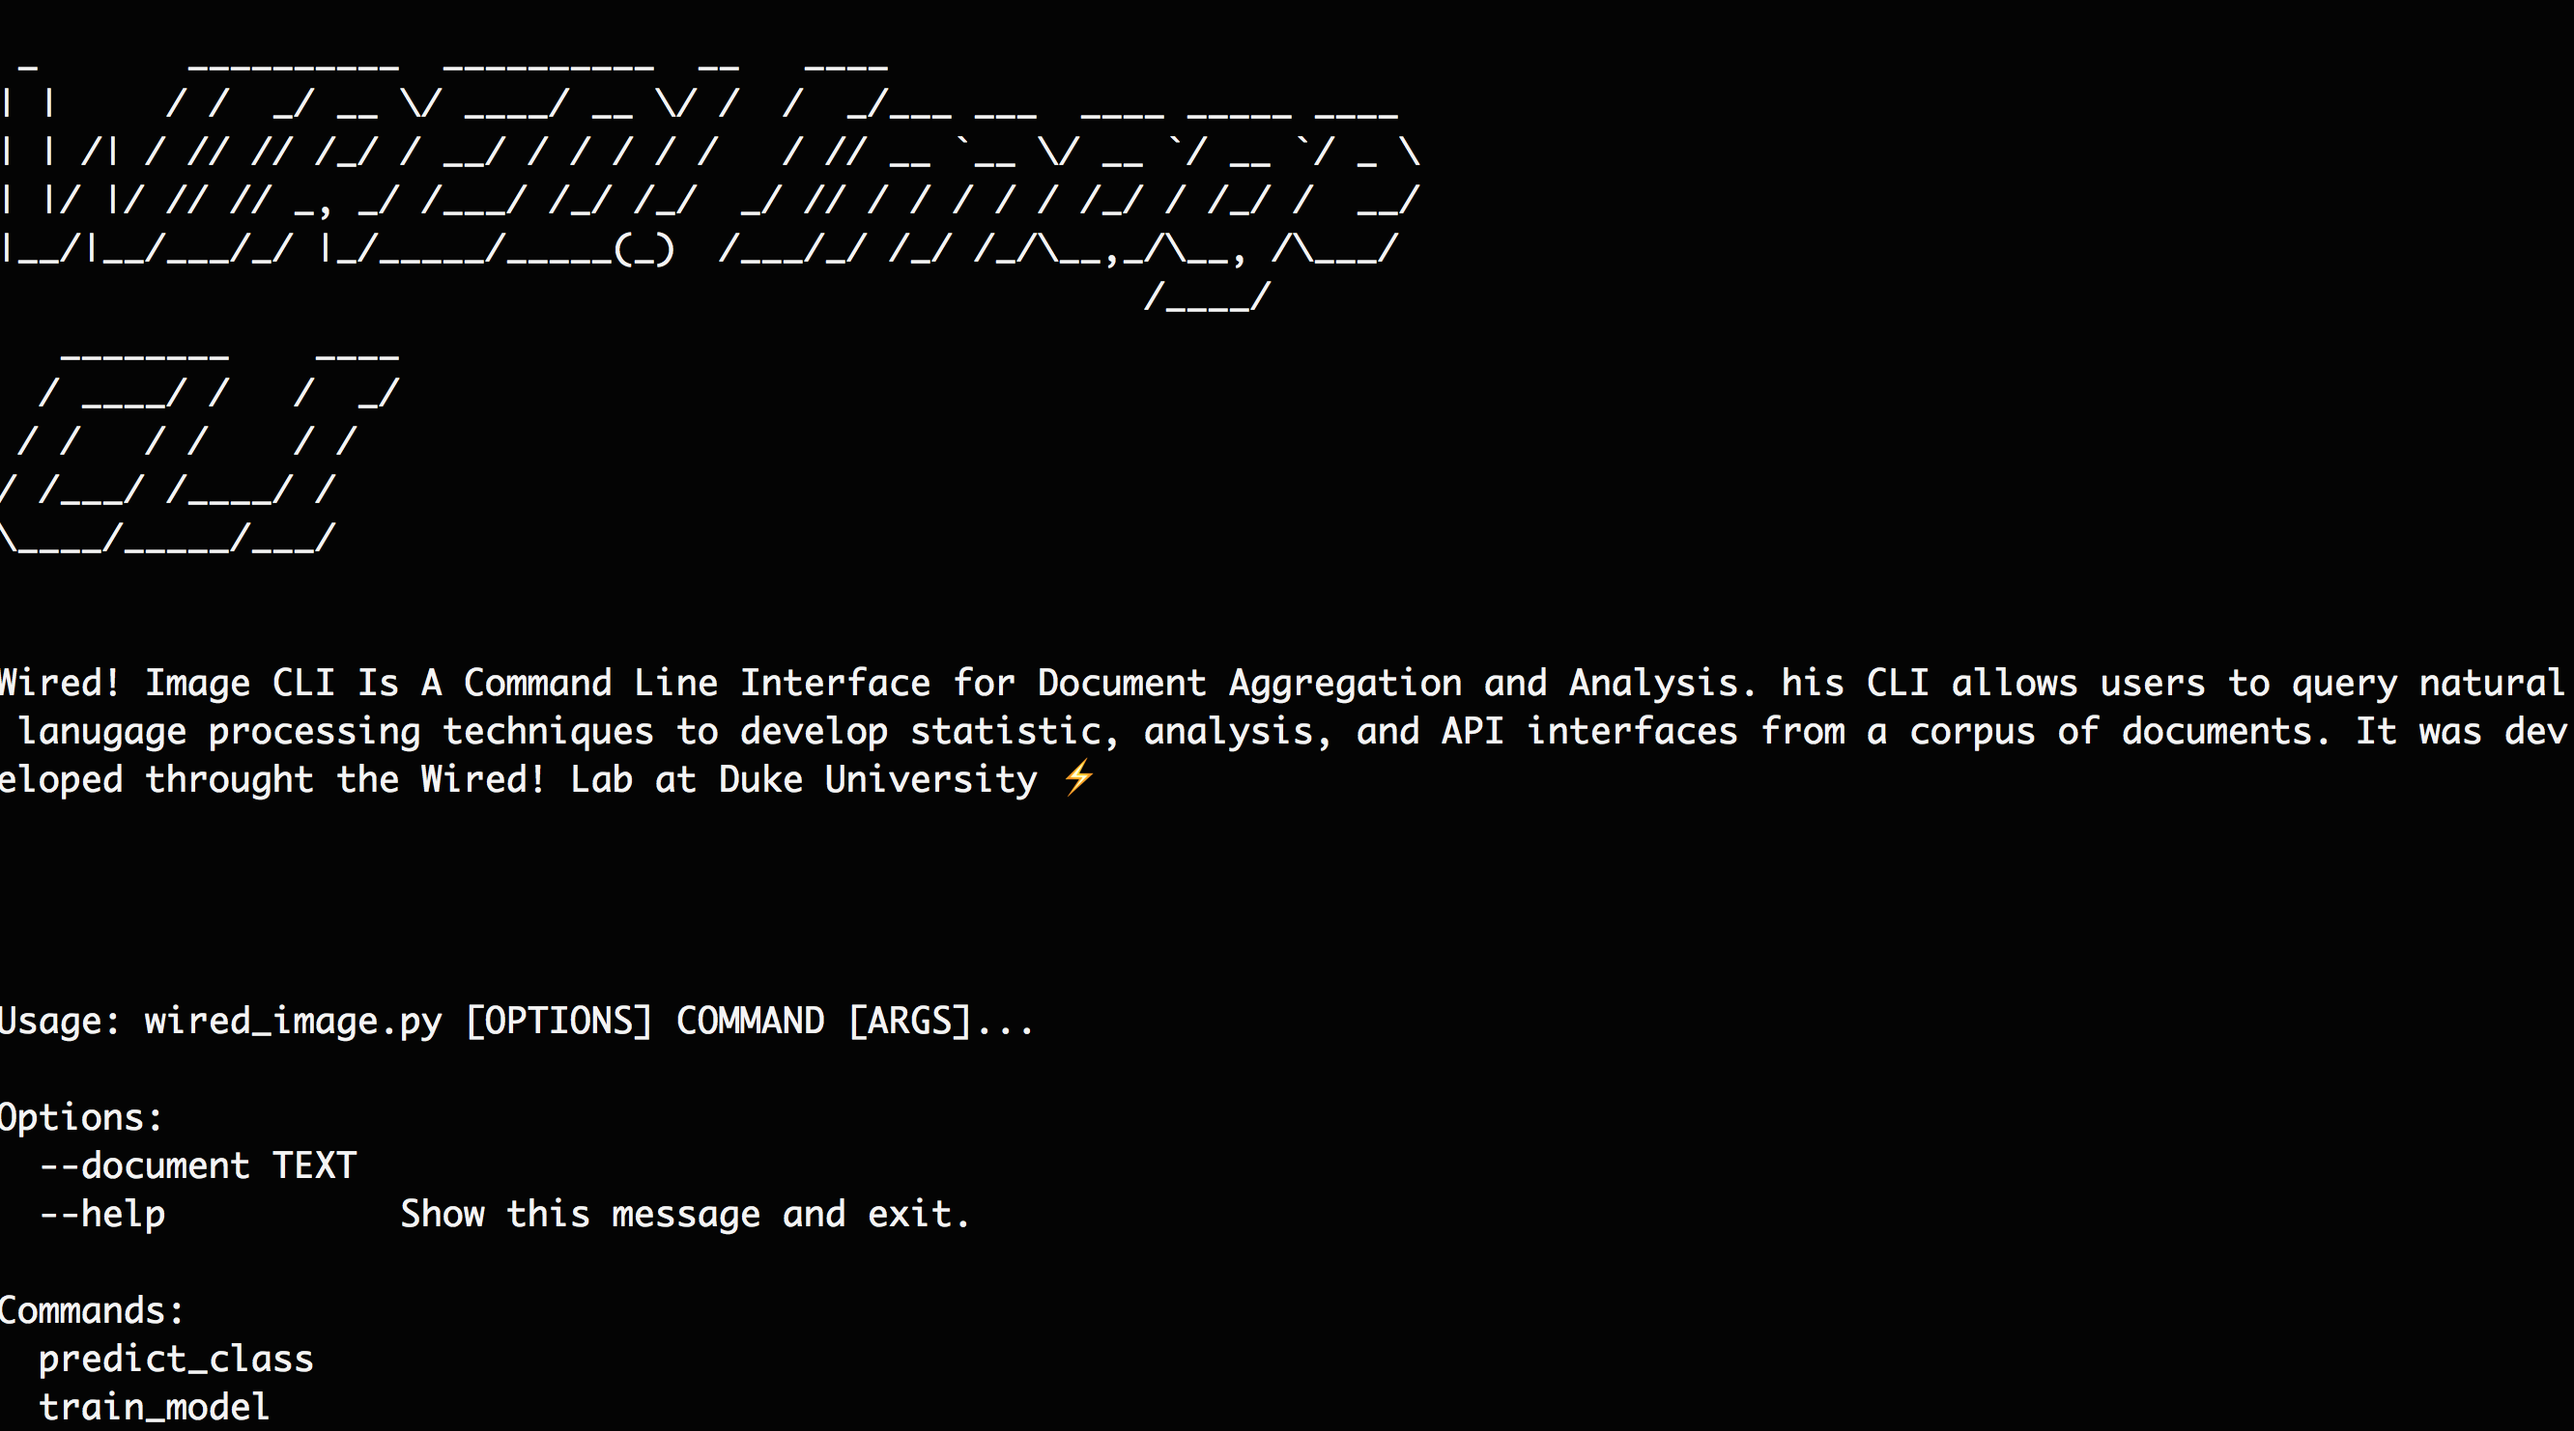
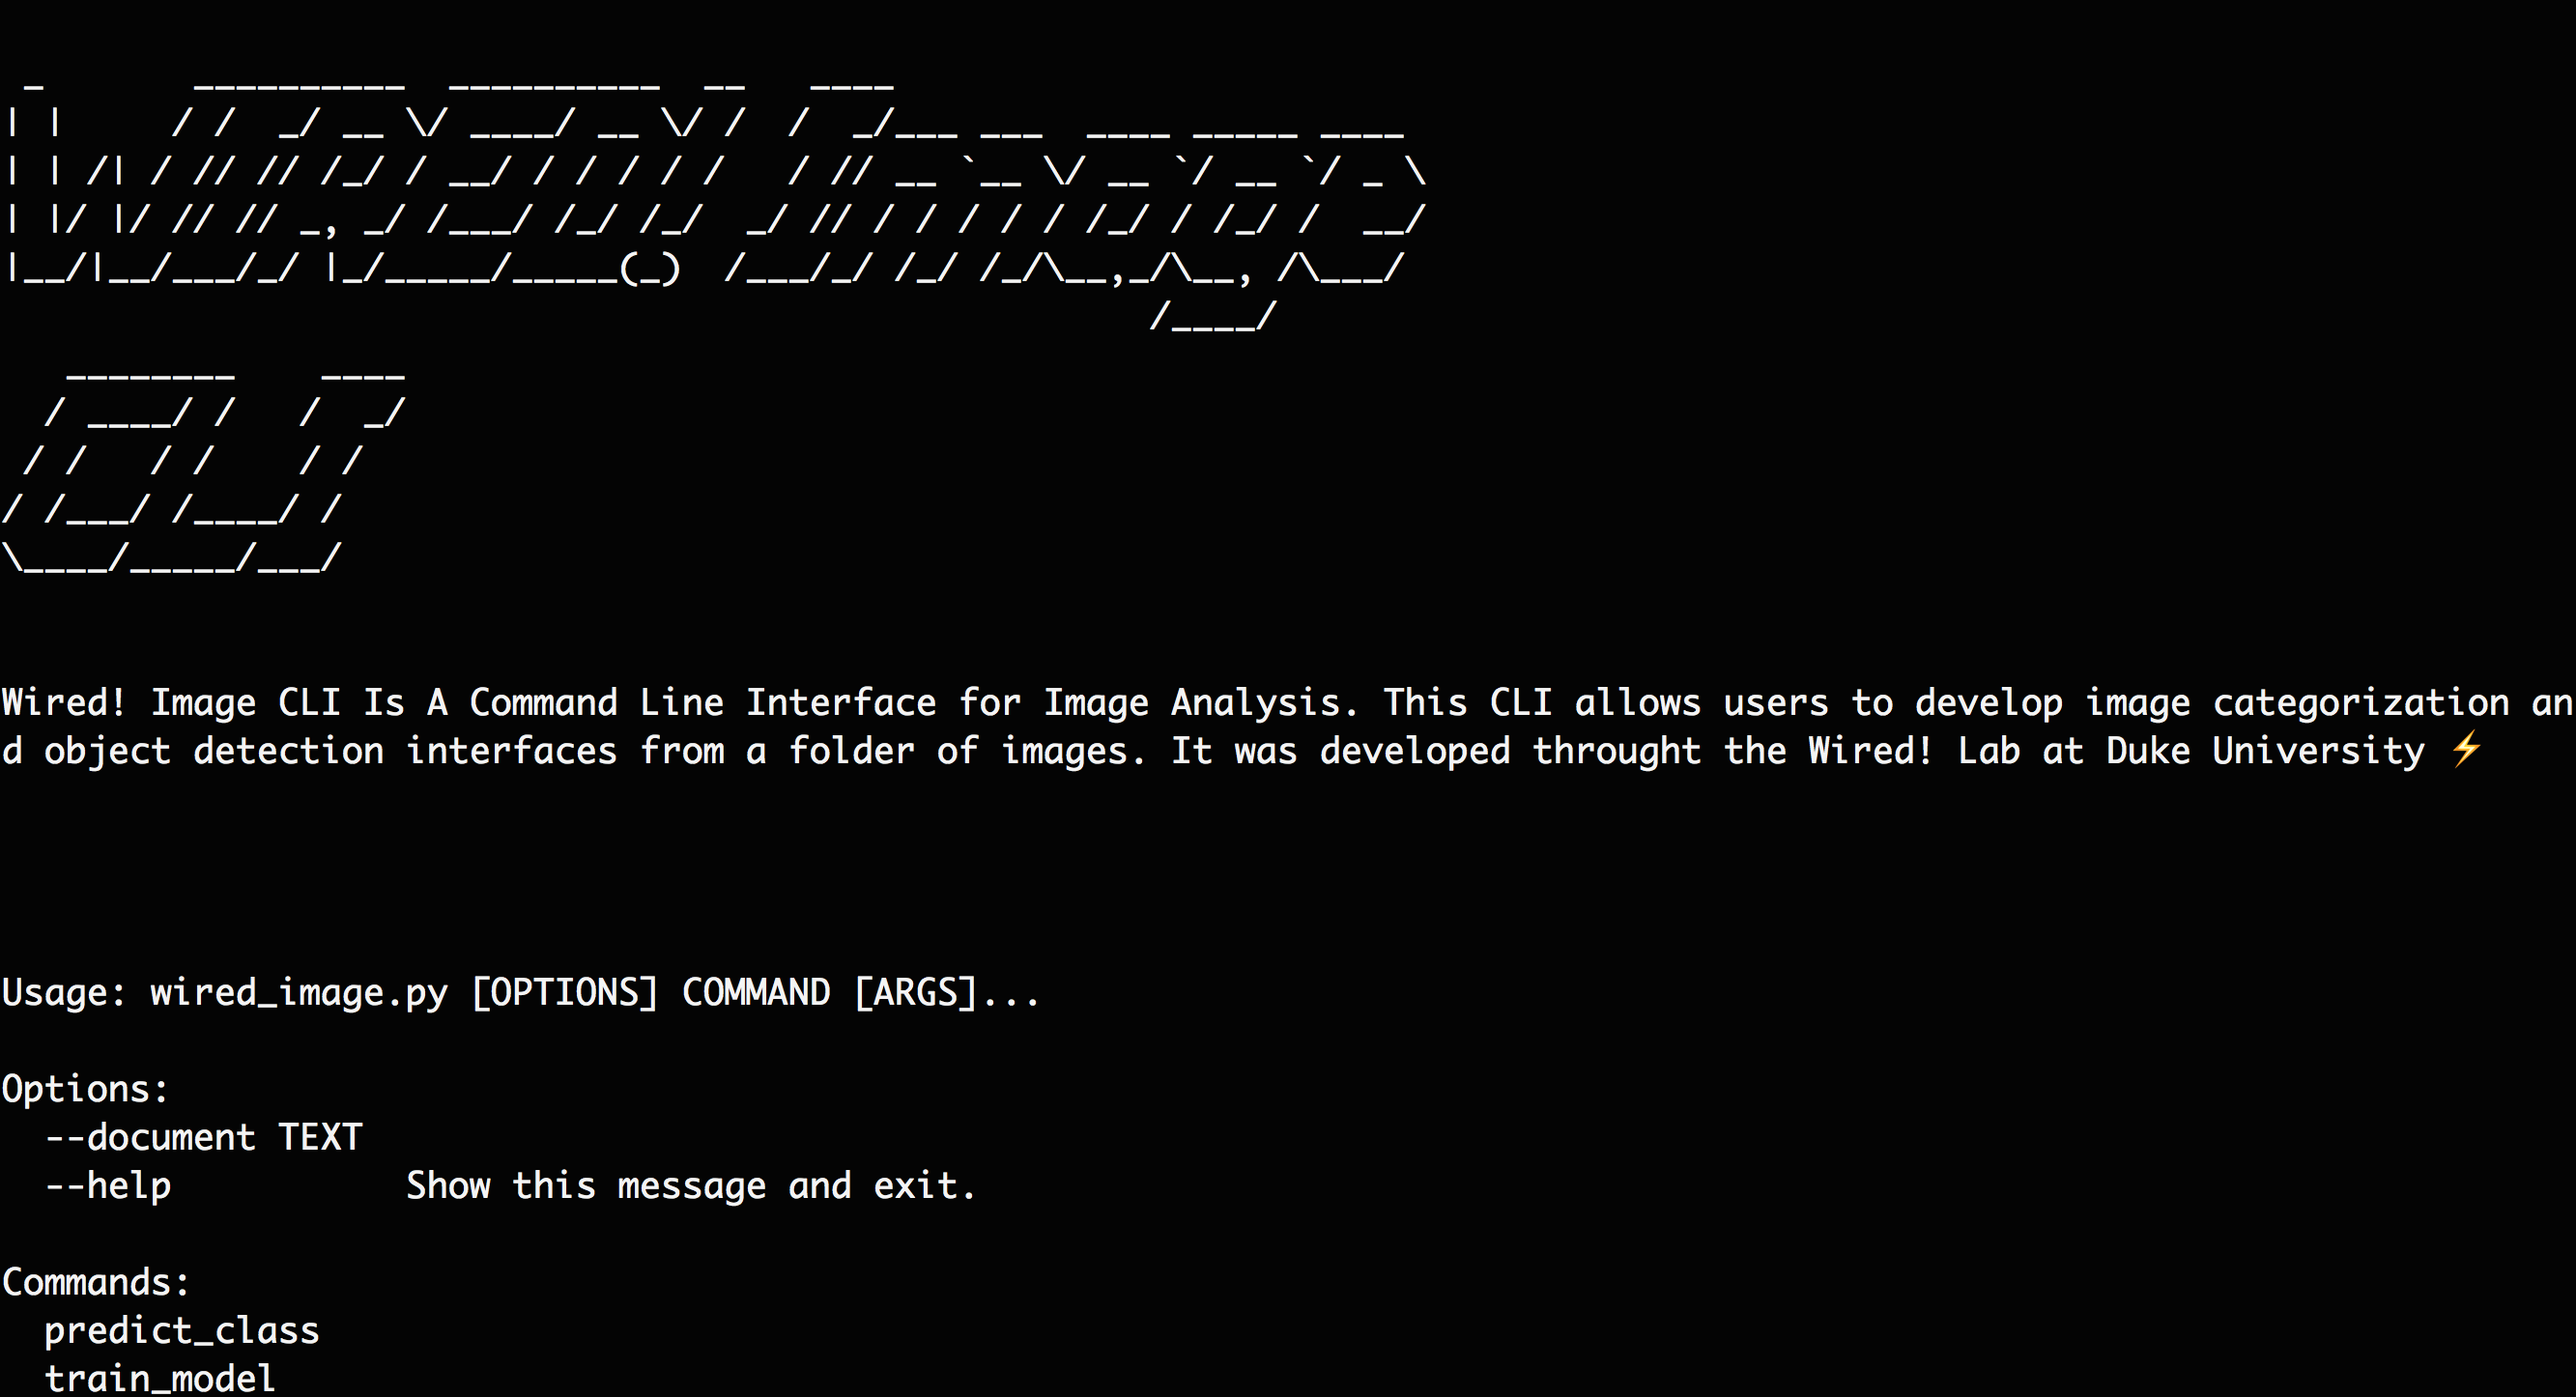
fix image and printout

diff --git a/wired_image.py b/wired_image.py
@@ -32,7 +32,7 @@ click.echo("")
 f = Figlet(font='slant')
 click.echo(f.renderText('WIRED! Image CLI'))
 
-click.echo('Wired! Image CLI Is A Command Line Interface for Document Aggregation and Analysis. his CLI allows users to query natural lanugage processing techniques to develop statistic, analysis, and API interfaces from a corpus of documents. It was developed throught the Wired! Lab at Duke University {}'.format(emoji.emojize(':zap:', use_aliases=True)))
+click.echo('Wired! Image CLI Is A Command Line Interface for Image Analysis. This CLI allows users to develop image categorization and object detection interfaces from a folder of images. It was developed throught the Wired! Lab at Duke University {}'.format(emoji.emojize(':zap:', use_aliases=True)))
 
 
 click.echo("")
